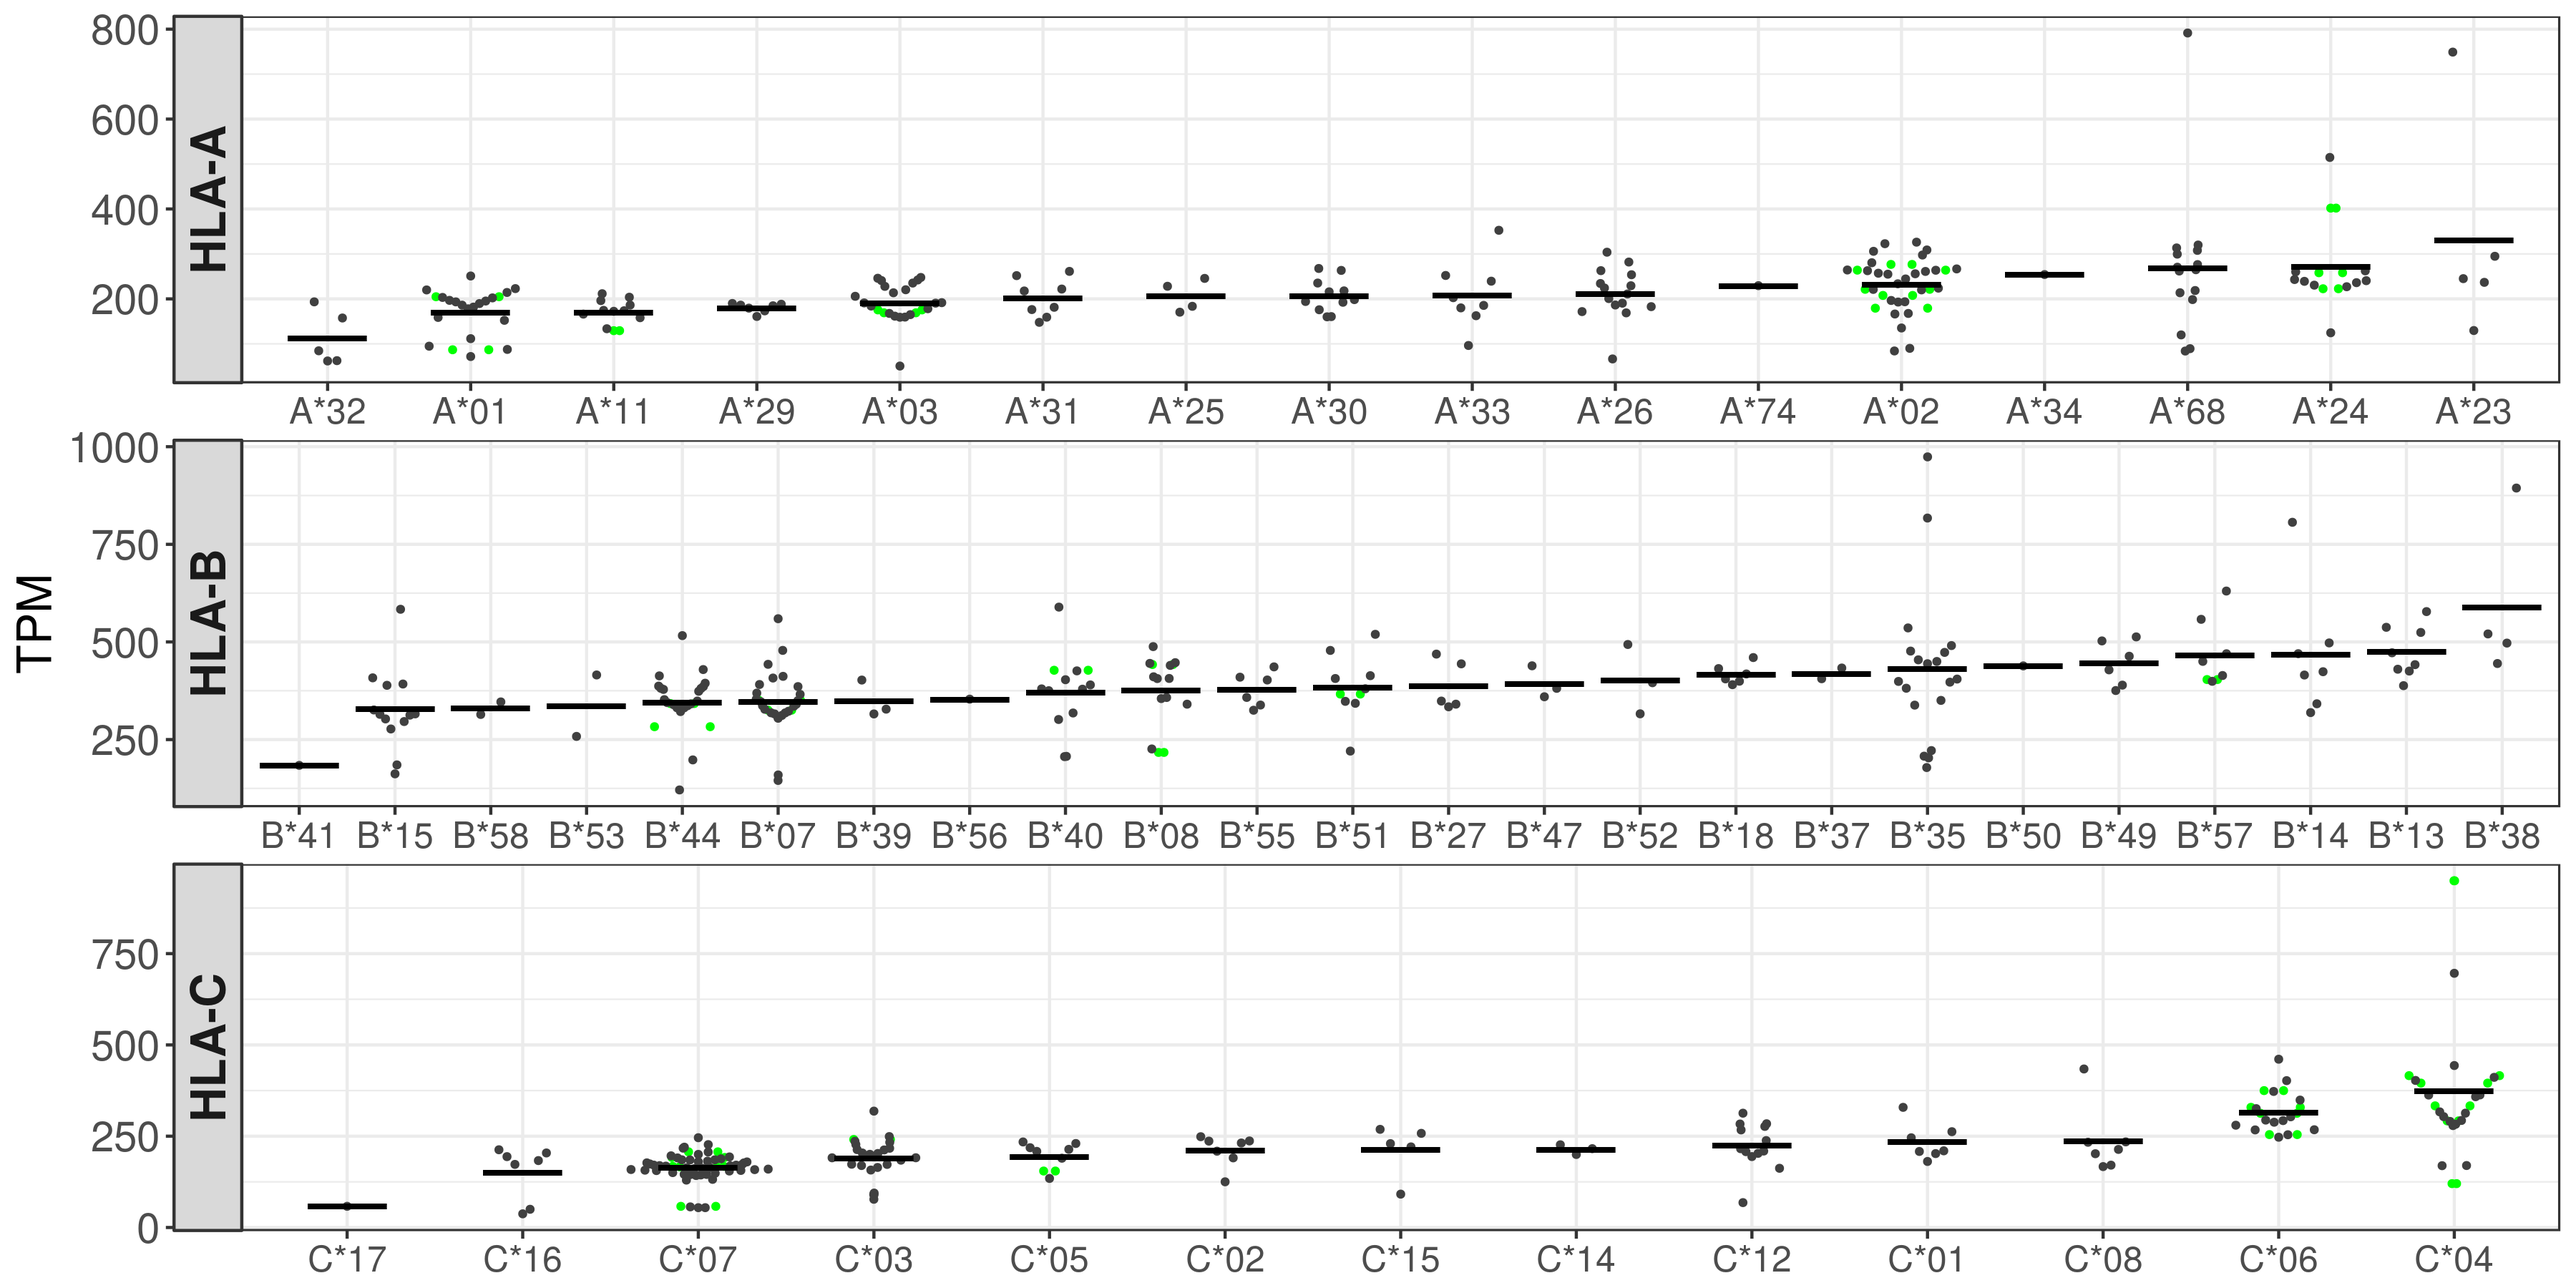
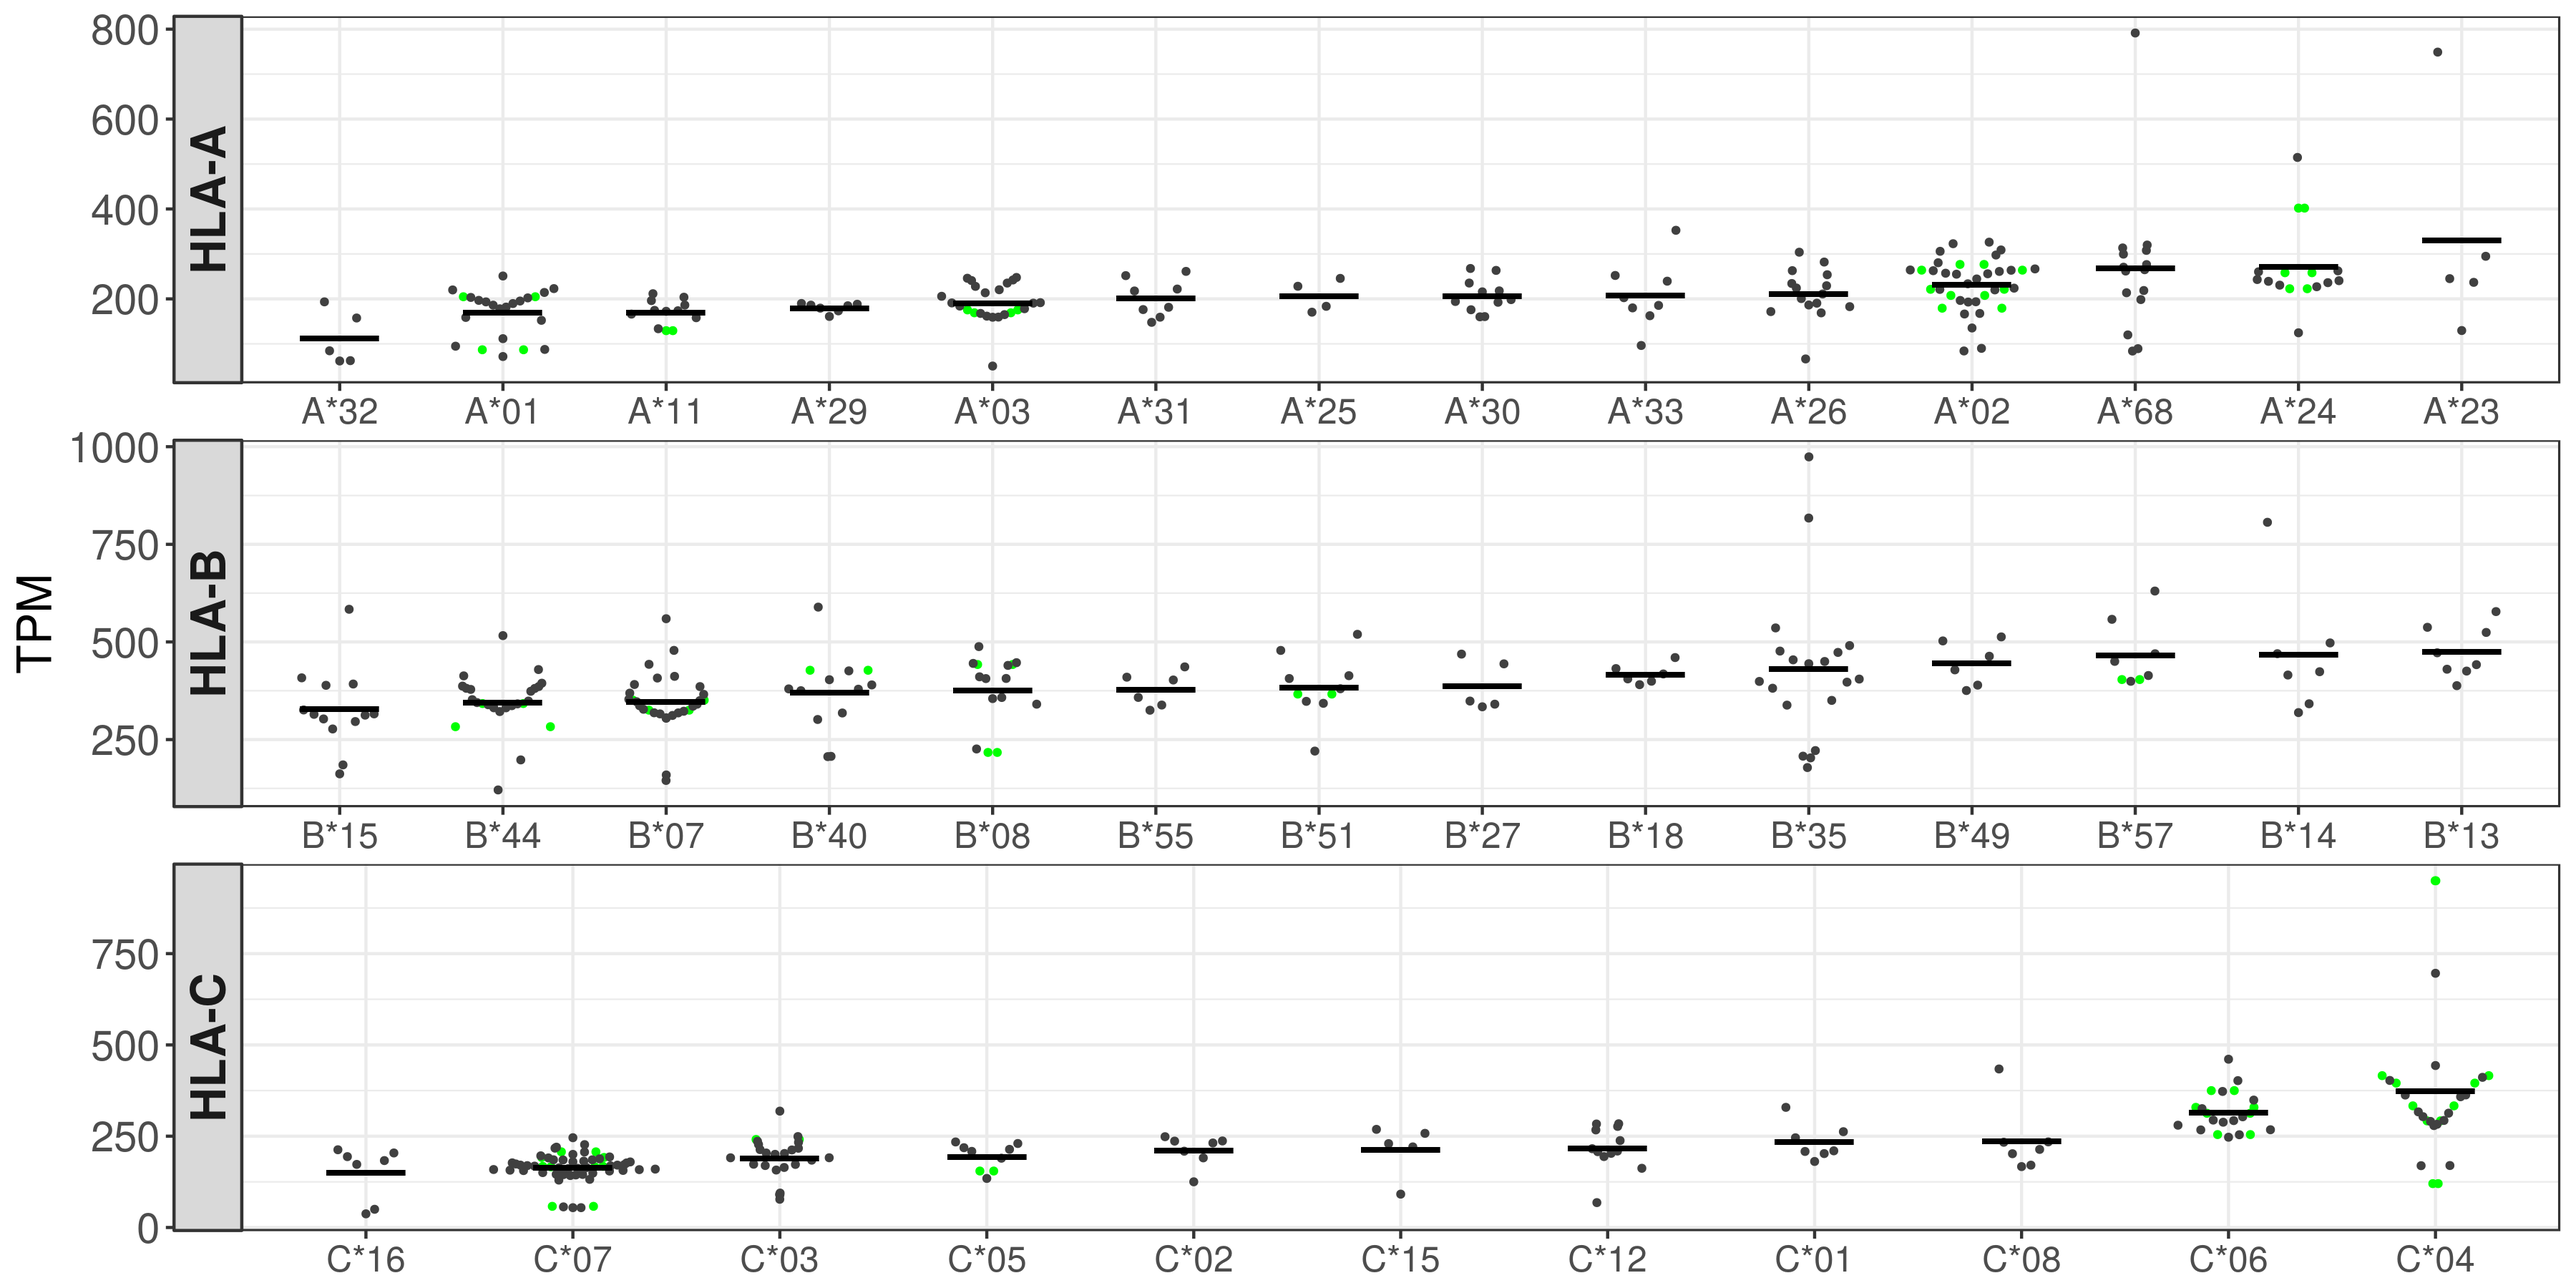
update report

diff --git a/nci/report.md b/nci/report.md
@@ -32,33 +32,35 @@ We first quantfied our ability to correctly genotype individuals based on the RN
 Expression boxplot
 ------------------
 
-![](./plots/expression_boxplot.png)
+<img src="./plots/expression_boxplot.png" width="1600" />
 
 Correlation between qPCR and RNAseq expression estimates
 --------------------------------------------------------
 
 We then compared the expression level estimates between RNAseq and qPCR. There is no correlation for HLA-B, some for HLA-A, and the highest is seen for HLA-C.
 
-![](./plots/seq_vs_pcr.png)
+<img src="./plots/seq_vs_pcr.png" width="3600" />
 
 HLA-C expression: RNA vs Antibody
 ---------------------------------
 
 Both qPCR and RNAseq strategies have similarly low correlations with the antibody-base expression estimates.
 
-![](./plots/ab_vs_rna.png)
+<img src="./plots/ab_vs_rna.png" width="3000" />
 
 RNAseq: expression estimates per lineage
 ----------------------------------------
 
 Our approach also allows assigning expression level estimates to allelic lineages. We compare the lineage-level expression for RNAseq (first set of panels) and qPCR (second set of panels, using imputed expression by regression analysis as done in the NCI group papers).
 
+The plots don't show the whole data, but only the overlap between the two datasets (although the totality of data was used to estimate/impute expression on both datasets).
+
 RNAseq
 ------
 
-![](./plots/rnaseq_lineages.png)
+<img src="./plots/rnaseq_lineages.png" width="3600" />
 
 qPCR
 ----
 
-![](./plots/nci_lineages.png)
+<img src="./plots/nci_lineages.png" width="3600" />
